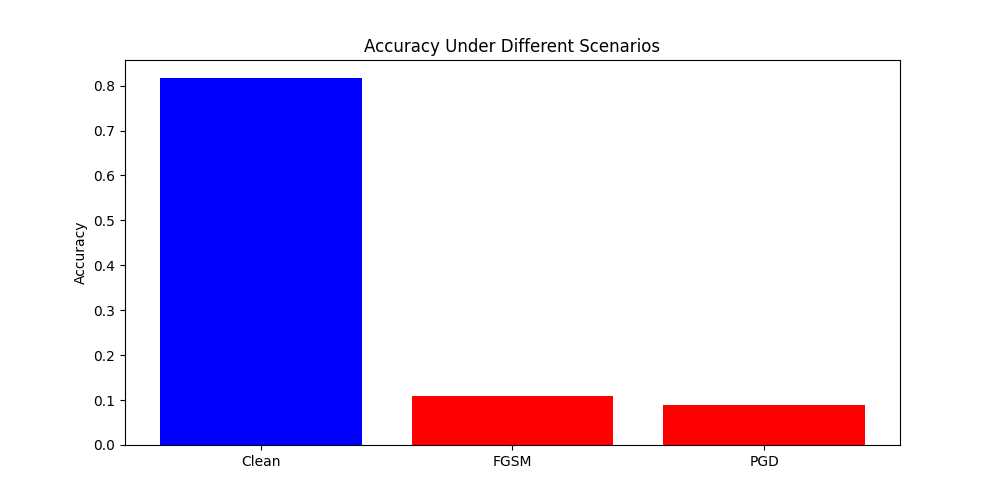
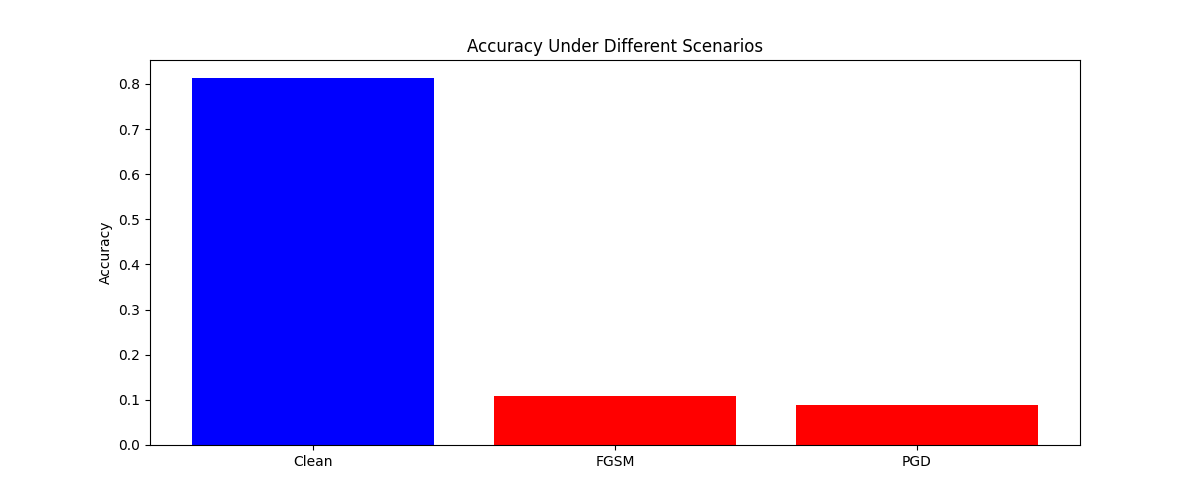
eupdayte

diff --git a/ml/algos/Reports/Week3.md b/ml/algos/Reports/Week3.md
@@ -265,134 +265,76 @@
       <p><u><strong>Clean Results</strong></u></p>
       <pre><code>
 [*] Clean evaluation:
-Accuracy: 0.7791
-Average inference time per batch: 0.0010 seconds
+Accuracy: 0.8124
+Average inference time per batch: 0.0016 seconds
+
 Classification Report:
               precision    recall  f1-score   support
-           0       0.48      0.47      0.47       834
-           1       1.00      1.00      1.00       807
-           2       0.99      0.99      0.99       778
-           3       0.99      0.99      0.99       809
-           4       0.47      0.48      0.47       824
-    accuracy                           0.78      4052
-   macro avg       0.78      0.78      0.78      4052
-weighted avg       0.78      0.78      0.78      4052</code></pre>
+           0       0.93      0.94      0.93      1307
+           1       0.82      0.80      0.81      1918
+           2       0.75      0.76      0.75      1847
+           3       0.78      0.79      0.78      1725
+    accuracy                           0.81      6797
+   macro avg       0.82      0.82      0.82      6797
+weighted avg       0.81      0.81      0.81      6797
+
+[TIME] evaluate_model executed in 13.88 seconds</code></pre>
     <p><u><strong>Attack Implementation</strong></u></p>
     <p>FGSM</p>
     <pre><code>
 [*] Attack: FGSM (ε=0.2)
-Accuracy: 0.4173
-Average attack+inference time per batch: 0.0362 seconds
+Accuracy: 0.1081
+Average attack+inference time per batch: 0.0724 seconds
 
 Classification Report:
               precision    recall  f1-score   support
-           0       0.45      0.36      0.40       834
-           1       0.47      0.43      0.45       807
-           2       0.36      0.43      0.39       778
-           3       0.48      0.45      0.46       809
-           4       0.36      0.41      0.38       824
-    accuracy                           0.42      4052
-   macro avg       0.42      0.42      0.42      4052
-weighted avg       0.42      0.42      0.42      4052
+           0       0.22      0.08      0.12      1307
+           1       0.09      0.09      0.09      1918
+           2       0.08      0.12      0.09      1847
+           3       0.14      0.14      0.14      1725
+    accuracy                           0.11      6797
+   macro avg       0.13      0.11      0.11      6797
+weighted avg       0.13      0.11      0.11      6797
 
-[TIME] test_evasion_attack executed in 9.34 seconds</code></pre>
+[TIME] test_evasion_attack executed in 25.90 seconds</code></pre>
     <p>PGD</p>
     <pre><code>
 [*] Attack: PGD (ε=0.2, iter=10)
-Accuracy: 0.2648
-Average attack+inference time per batch: 0.1489 seconds
+Accuracy: 0.0881
+Average attack+inference time per batch: 0.3330 seconds
 
 Classification Report:
               precision    recall  f1-score   support
-           0       0.39      0.28      0.33       834
-           1       0.29      0.28      0.29       807
-           2       0.19      0.30      0.23       778
-           3       0.29      0.27      0.28       809
-           4       0.24      0.20      0.22       824
-    accuracy                           0.26      4052
-   macro avg       0.28      0.27      0.27      4052
-weighted avg       0.28      0.26      0.27      4052
+           0       0.09      0.05      0.06      1307
+           1       0.09      0.09      0.09      1918
+           2       0.06      0.09      0.07      1847
+           3       0.13      0.12      0.12      1725
+    accuracy                           0.09      6797
+   macro avg       0.09      0.09      0.09      6797
+weighted avg       0.09      0.09      0.09      6797
 
-[TIME] test_evasion_attack executed in 23.73 seconds</code></pre>
+[TIME] test_evasion_attack executed in 81.36 seconds</code></pre>
     <hr>
-    <p>Defences - on DNN - Adversarial Training</p>
-    <p>Training : <strong>Ratio : 0.5</strong> — <strong>460.06 seconds</strong> - <strong>15 epochs</strong></p>
-    <p><u><strong>Results after Adversarial Training</strong></u></p>
-    <p>Global</p>
-    <pre><code>
-[*] Evaluation under after defense attack:
-Accuracy: 0.7853
-Average inference time per batch: 0.0019 seconds
-
-Classification Report:
-              precision    recall  f1-score   support
-           0       0.47      0.30      0.36       834
-           1       1.00      1.00      1.00       807
-           2       1.00      1.00      1.00       778
-           3       1.00      1.00      1.00       809
-           4       0.48      0.66      0.56       824
-    accuracy                           0.79      4052
-   macro avg       0.79      0.79      0.78      4052
-weighted avg       0.78      0.79      0.78      4052
-
-[TIME] evaluate_model executed in 8.15 seconds</code></pre>
-    <p>FGSM</p>
-    <pre><code>
-[*] Attack: FGSM (after defense)
-Accuracy: 0.7823
-Average attack+inference time per batch: 0.0432 seconds
-
-Classification Report:
-              precision    recall  f1-score   support
-           0       0.46      0.30      0.36       834
-           1       1.00      1.00      1.00       807
-           2       1.00      1.00      1.00       778
-           3       1.00      1.00      1.00       809
-           4       0.48      0.64      0.55       824
-    accuracy                           0.78      4052
-   macro avg       0.79      0.79      0.78      4052
-weighted avg       0.78      0.78      0.78      4052
-
-[TIME] test_evasion_attack executed in 11.51 seconds</code></pre>
-    <p>PGD</p>
-    <pre><code>
-[*] Attack: PGD (after defense)
-Accuracy: 0.7813
-Average attack+inference time per batch: 0.1573 seconds
-
-Classification Report:
-              precision    recall  f1-score   support
-           0       0.46      0.33      0.39       834
-           1       0.99      1.00      1.00       807
-           2       1.00      0.99      1.00       778
-           3       1.00      1.00      1.00       809
-           4       0.48      0.61      0.54       824
-    accuracy                           0.78      4052
-   macro avg       0.79      0.79      0.78      4052
-weighted avg       0.78      0.78      0.78      4052
-
-[TIME] test_evasion_attack executed in 25.69 seconds</code></pre>
-    <p><u><strong>Summary</strong></u></p>
     <pre><code>
 Accuracy Metrics:
-Initial clean accuracy: 0.7791
-Accuracy under FGSM attack: 0.4173 (Drop: 0.3618)
-Accuracy under PGD attack: 0.2648 (Drop: 0.5143)
-Clean accuracy after defense: 0.7853
-Accuracy under FGSM after defense: 0.7823 (Improvement: 0.3650)
-Accuracy under PGD after defense: 0.7813 (Improvement: 0.5165)
+Initial clean accuracy: 0.8124
+Accuracy under FGSM attack: 0.1081 (Drop: 0.7043)
+Accuracy under PGD attack: 0.0881 (Drop: 0.7243)
 
 Performance Metrics:
-Standard training time: 289.79 seconds
-Adversarial training time: 460.06 seconds (58.76% increase)
-Average clean inference time: 0.0010 seconds per batch
-Average FGSM attack+inference time: 0.0362 seconds per batch
-Average PGD attack+inference time: 0.1489 seconds per batch</code></pre>
+Standard training time: 1526.77 seconds
+Average clean inference time: 0.0016 seconds per batch
+Average FGSM attack+inference time: 0.0724 seconds per batch
+Average PGD attack+inference time: 0.3330 seconds per batch</code></pre>
     <hr>
     <h3>Images</h3>
     <div class="img-container">
+      <img src="https://raw.githubusercontent.com/sirthirrygolooo/MLsecurity/refs/heads/master/ml/algos/ARTLab/V1/results/img/4V2/confusion_matrix.png" alt="Adversarial Example">
+      <p>Fig.0 Attack comparizon for ε=0.4</p>
+    </div>
+    <div class="img-container">
       <img src="https://raw.githubusercontent.com/sirthirrygolooo/MLsecurity/refs/heads/master/ml/algos/ARTLab/V1/results/img/4V2/fgsm_attack_full.png" alt="Adversarial Example">
-      <p>Fig.1 FGSM pour ε=0.2</p>
+      <p>Fig.1 Attack comparison for ε=0.2</p>
     </div>
     <div class="img-container">
       <img src="https://raw.githubusercontent.com/sirthirrygolooo/MLsecurity/refs/heads/master/ml/algos/ARTLab/V1/results/img/4V2/pgd_attack_full.png" alt="Adversarial Example">
